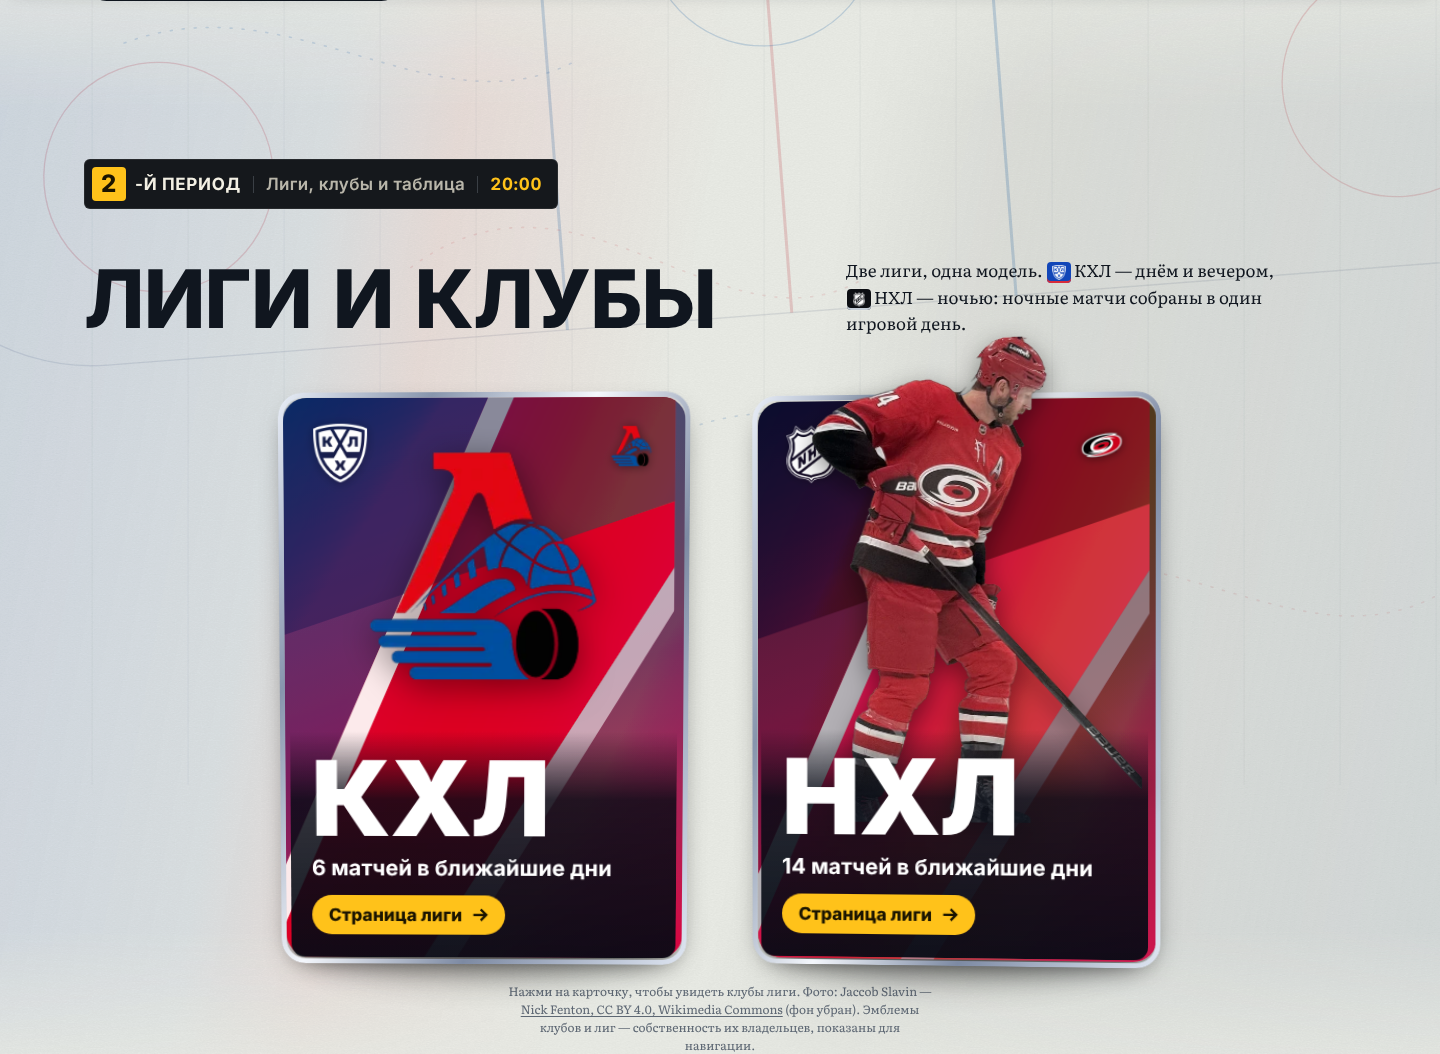
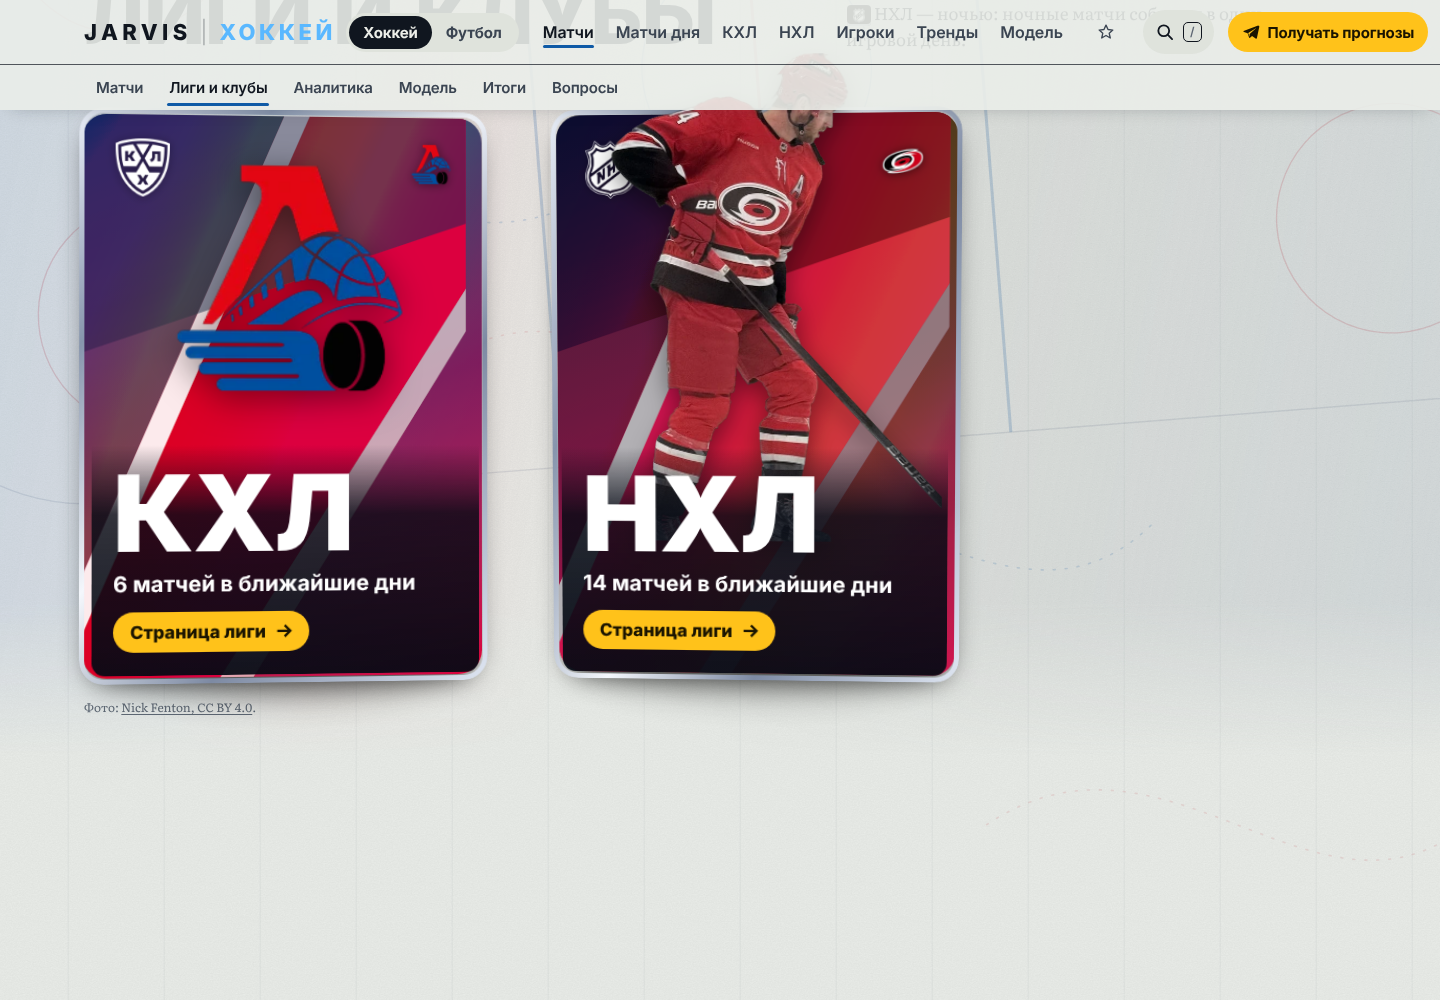
Лиги и клубы: карточки по левому краю контента (84/24/16 по замеру), на 768 в ряд, подпись — только автор фото
Claude-Session: https://claude.ai/code/session_018beMsDJL2TDgCESuvfvKBR

diff --git a/team/site/v3a/assets/leaguecards/lc.css b/team/site/v3a/assets/leaguecards/lc.css
@@ -1,7 +1,7 @@
 /* Карточки лиг (КХЛ, НХЛ) для раздела «Лиги и клубы». Те же приёмы, что в proto/home/cards: 3D-наклон, слои по глубине,
    игрок выступает из рамки, переворот по нажатию. Без стекла и без пятна света у курсора: фольга сдержанная и зависит от угла наклона. */
-.lc-deck{--cw:min(400px,40vw,calc((100svh - 240px) * .714));display:flex;justify-content:center;gap:clamp(24px,5vw,80px);margin:clamp(40px,4.4vw,64px) 0 0;padding:0 8px}
-.lc-credit{margin:22px auto 0;max-width:62ch;text-align:center;font:400 12px/1.5 var(--text);color:var(--ink-3)}
+.lc-deck{--cw:min(400px,40vw,calc((100svh - 240px) * .714));display:flex;justify-content:flex-start;gap:clamp(24px,5vw,80px);margin:clamp(40px,4.4vw,64px) 0 0;padding:0}
+.lc-credit{margin:22px 0 0;max-width:62ch;text-align:left;font:400 12px/1.5 var(--text);color:var(--ink-3)}
 .lc-credit a{color:inherit;text-underline-offset:2px}
 
 .lcard{--rx:0;--ry:0;--hi:.3;--fx:50;--s:1;--c1:#d6001c;--c2:#0a2a5e;--c3:#fff;--ac:#e31e32;
@@ -61,7 +61,7 @@
 .lcard .cg a:focus-visible{outline:2px solid var(--signal,#ffd54d)}
 .lcard .bk .open{align-self:flex-start;margin-top:auto}
 
-@media (max-width:820px){.lc-deck{flex-direction:column;align-items:center;gap:68px;padding:0;--cw:min(86vw,360px)}}
+@media (max-width:600px){.lc-deck{flex-direction:column;align-items:flex-start;gap:68px;padding:0;--cw:min(calc(100vw - 32px),360px)}}
 @media (prefers-reduced-motion:reduce){.lcard .flip{transition:none}.lcard .tilt{will-change:auto}}
 .lcard .pl.sl{height:116cqw;left:56%;top:-12cqw}
 .lcard .pl.emb{width:62cqw;top:11cqw}

diff --git a/team/site/v3a/hockey/index.html b/team/site/v3a/hockey/index.html
@@ -121,7 +121,7 @@ document.querySelector('meta[name=theme-color]').content={arena:'#071225',a:'#0a
     <div class="period" data-rv><p><span class="pn">2</span><span class="pw">-й период</span><span class="pt">Лиги, клубы и таблица</span><span class="pc num">20:00</span></p></div>
     <div class="sec-head" data-rv><h2>Лиги и клубы</h2><p>Две лиги, одна модель. <span class="lgp khl"><img src="../assets/lg/khl.webp" alt=""></span>КХЛ — днём и вечером, <span class="lgp nhl"><img src="../assets/lg/nhl.webp" alt=""></span>НХЛ — ночью: ночные матчи собраны в один игровой день.</p></div>
     <div class="lc-deck" id="lcdeck" data-rv></div>
-    <p class="lc-credit" id="lccredit">Нажми на карточку, чтобы увидеть клубы лиги. Фото: Jaccob Slavin — <a href="https://commons.wikimedia.org/wiki/File:Jaccob_Slavin_20241228_002.jpg" target="_blank" rel="noopener">Nick Fenton, CC BY 4.0, Wikimedia Commons</a> (фон убран). Эмблемы клубов и лиг — собственность их владельцев, показаны для навигации.</p>
+    <p class="lc-credit" id="lccredit">Фото: <a href="https://commons.wikimedia.org/wiki/File:Jaccob_Slavin_20241228_002.jpg" target="_blank" rel="noopener">Nick Fenton, CC BY 4.0</a>.</p>
   </div>
 </section>
 
